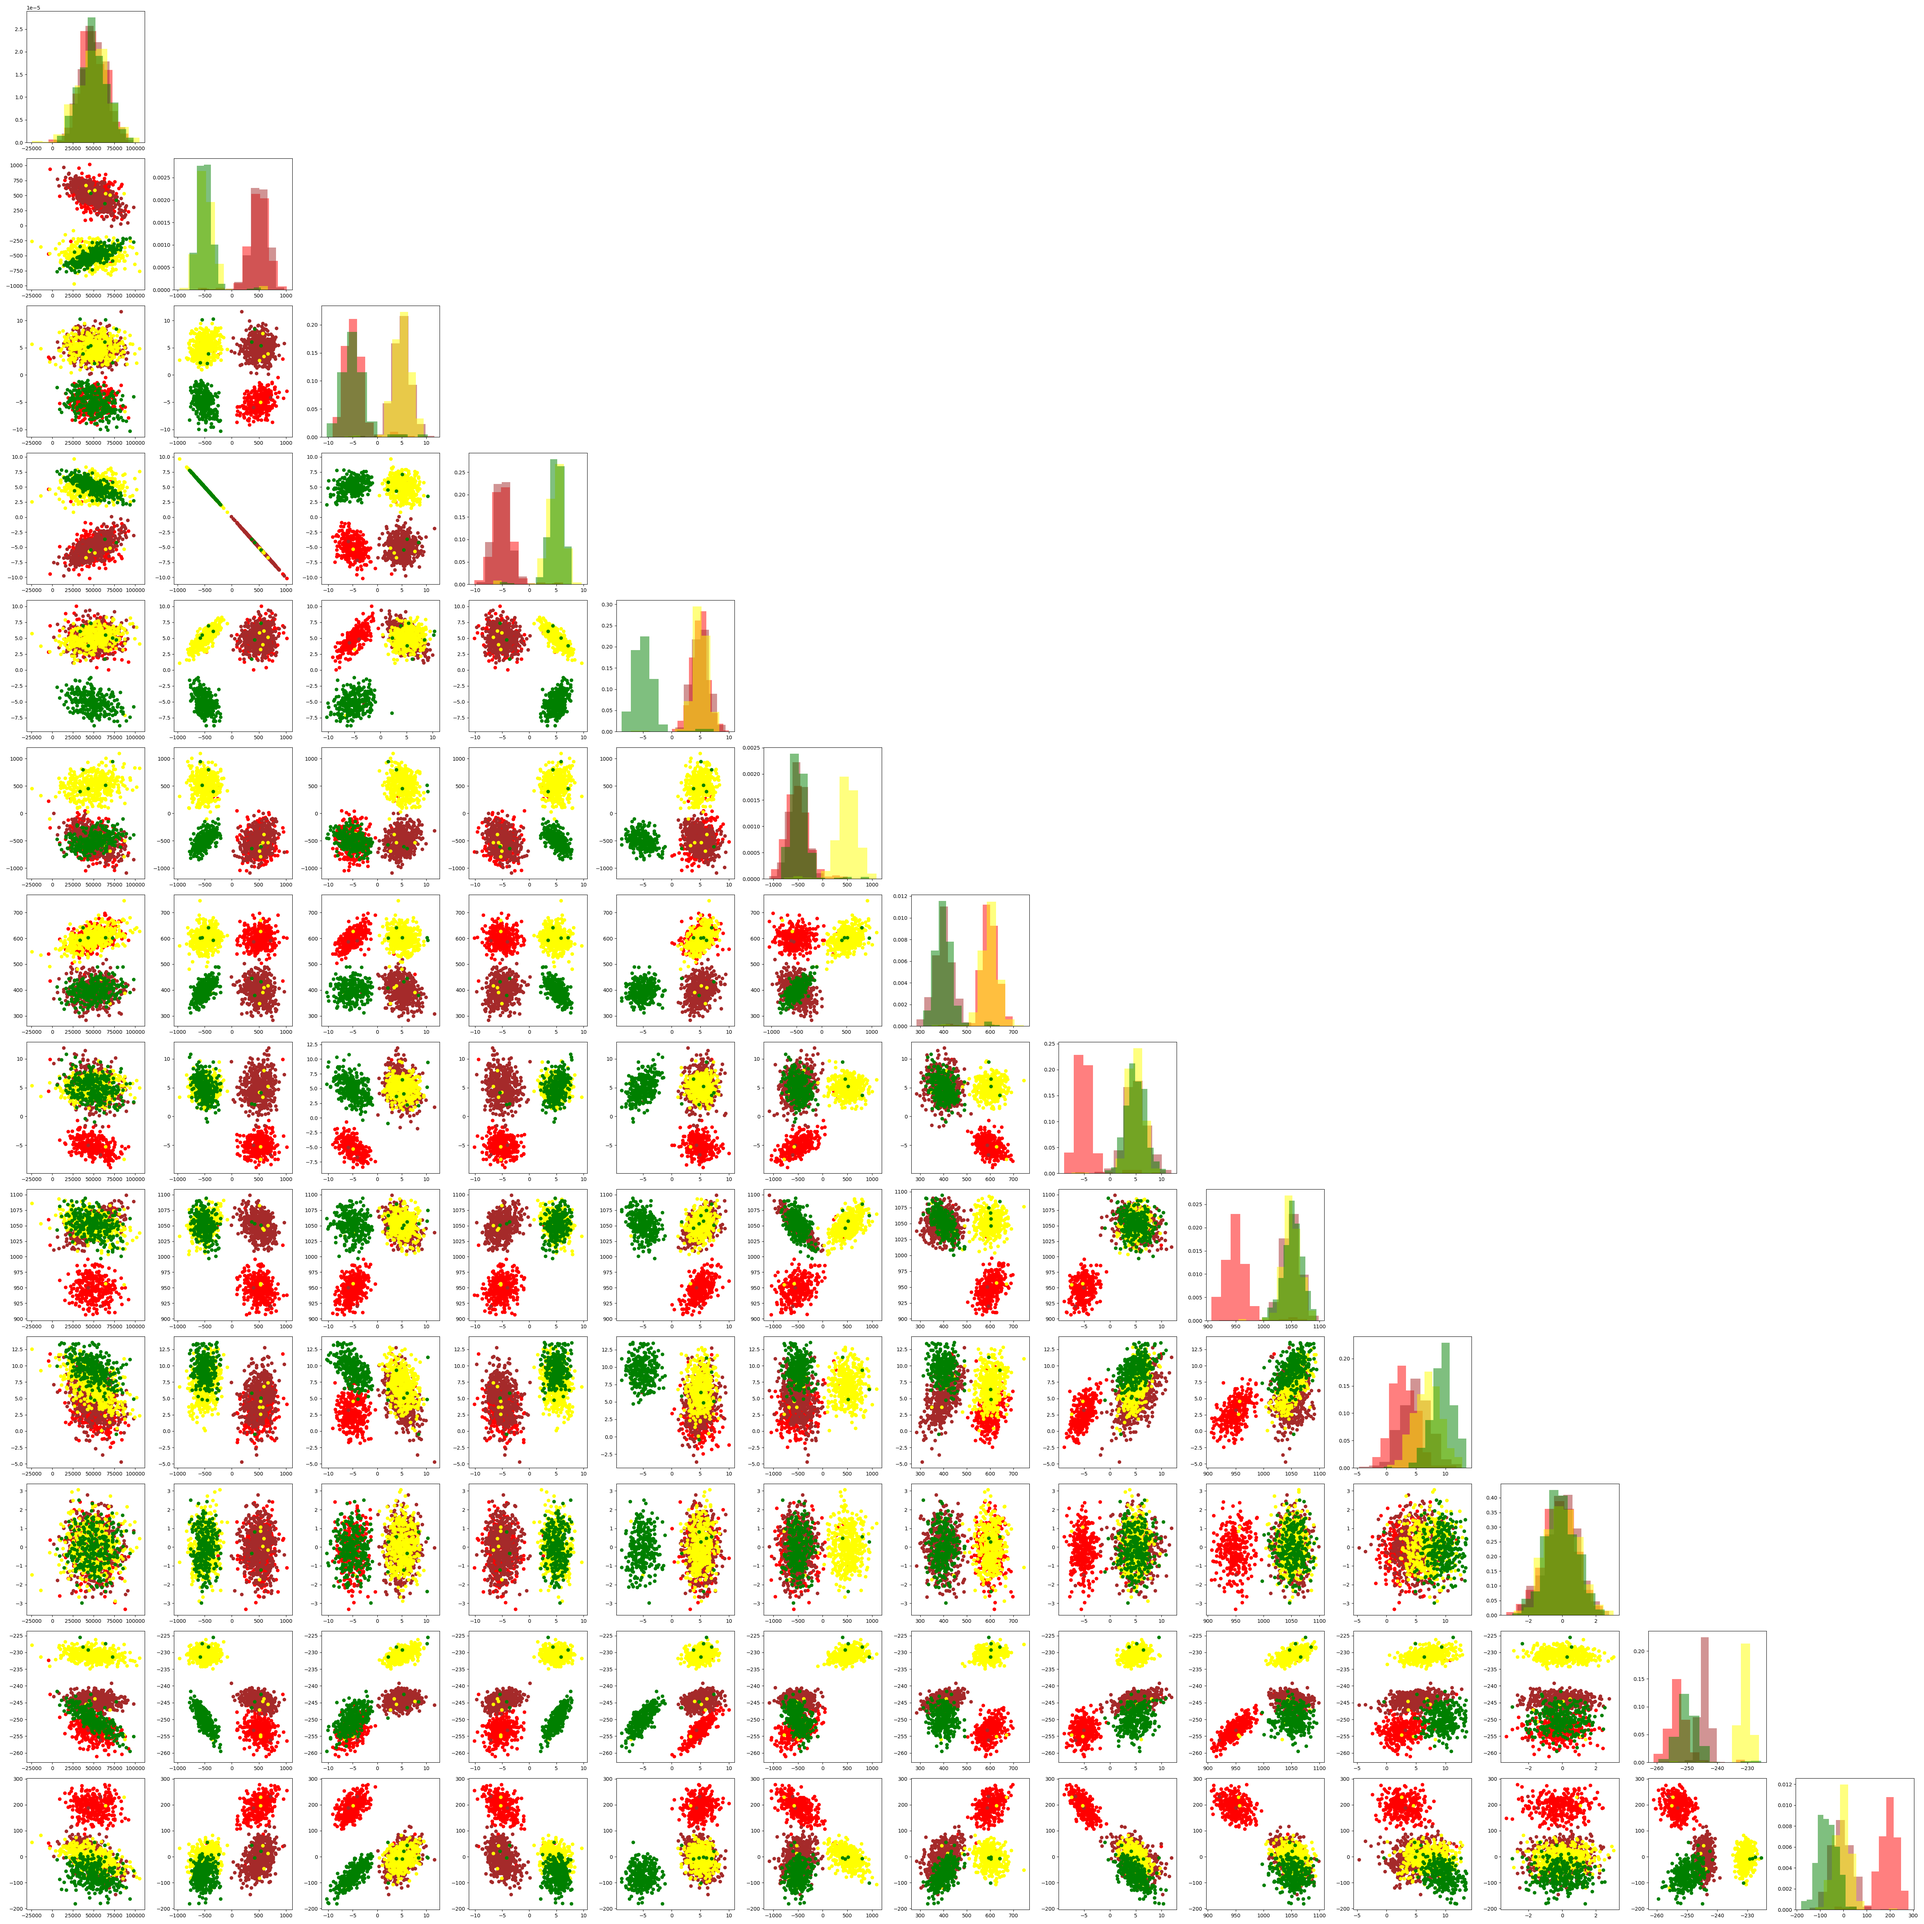
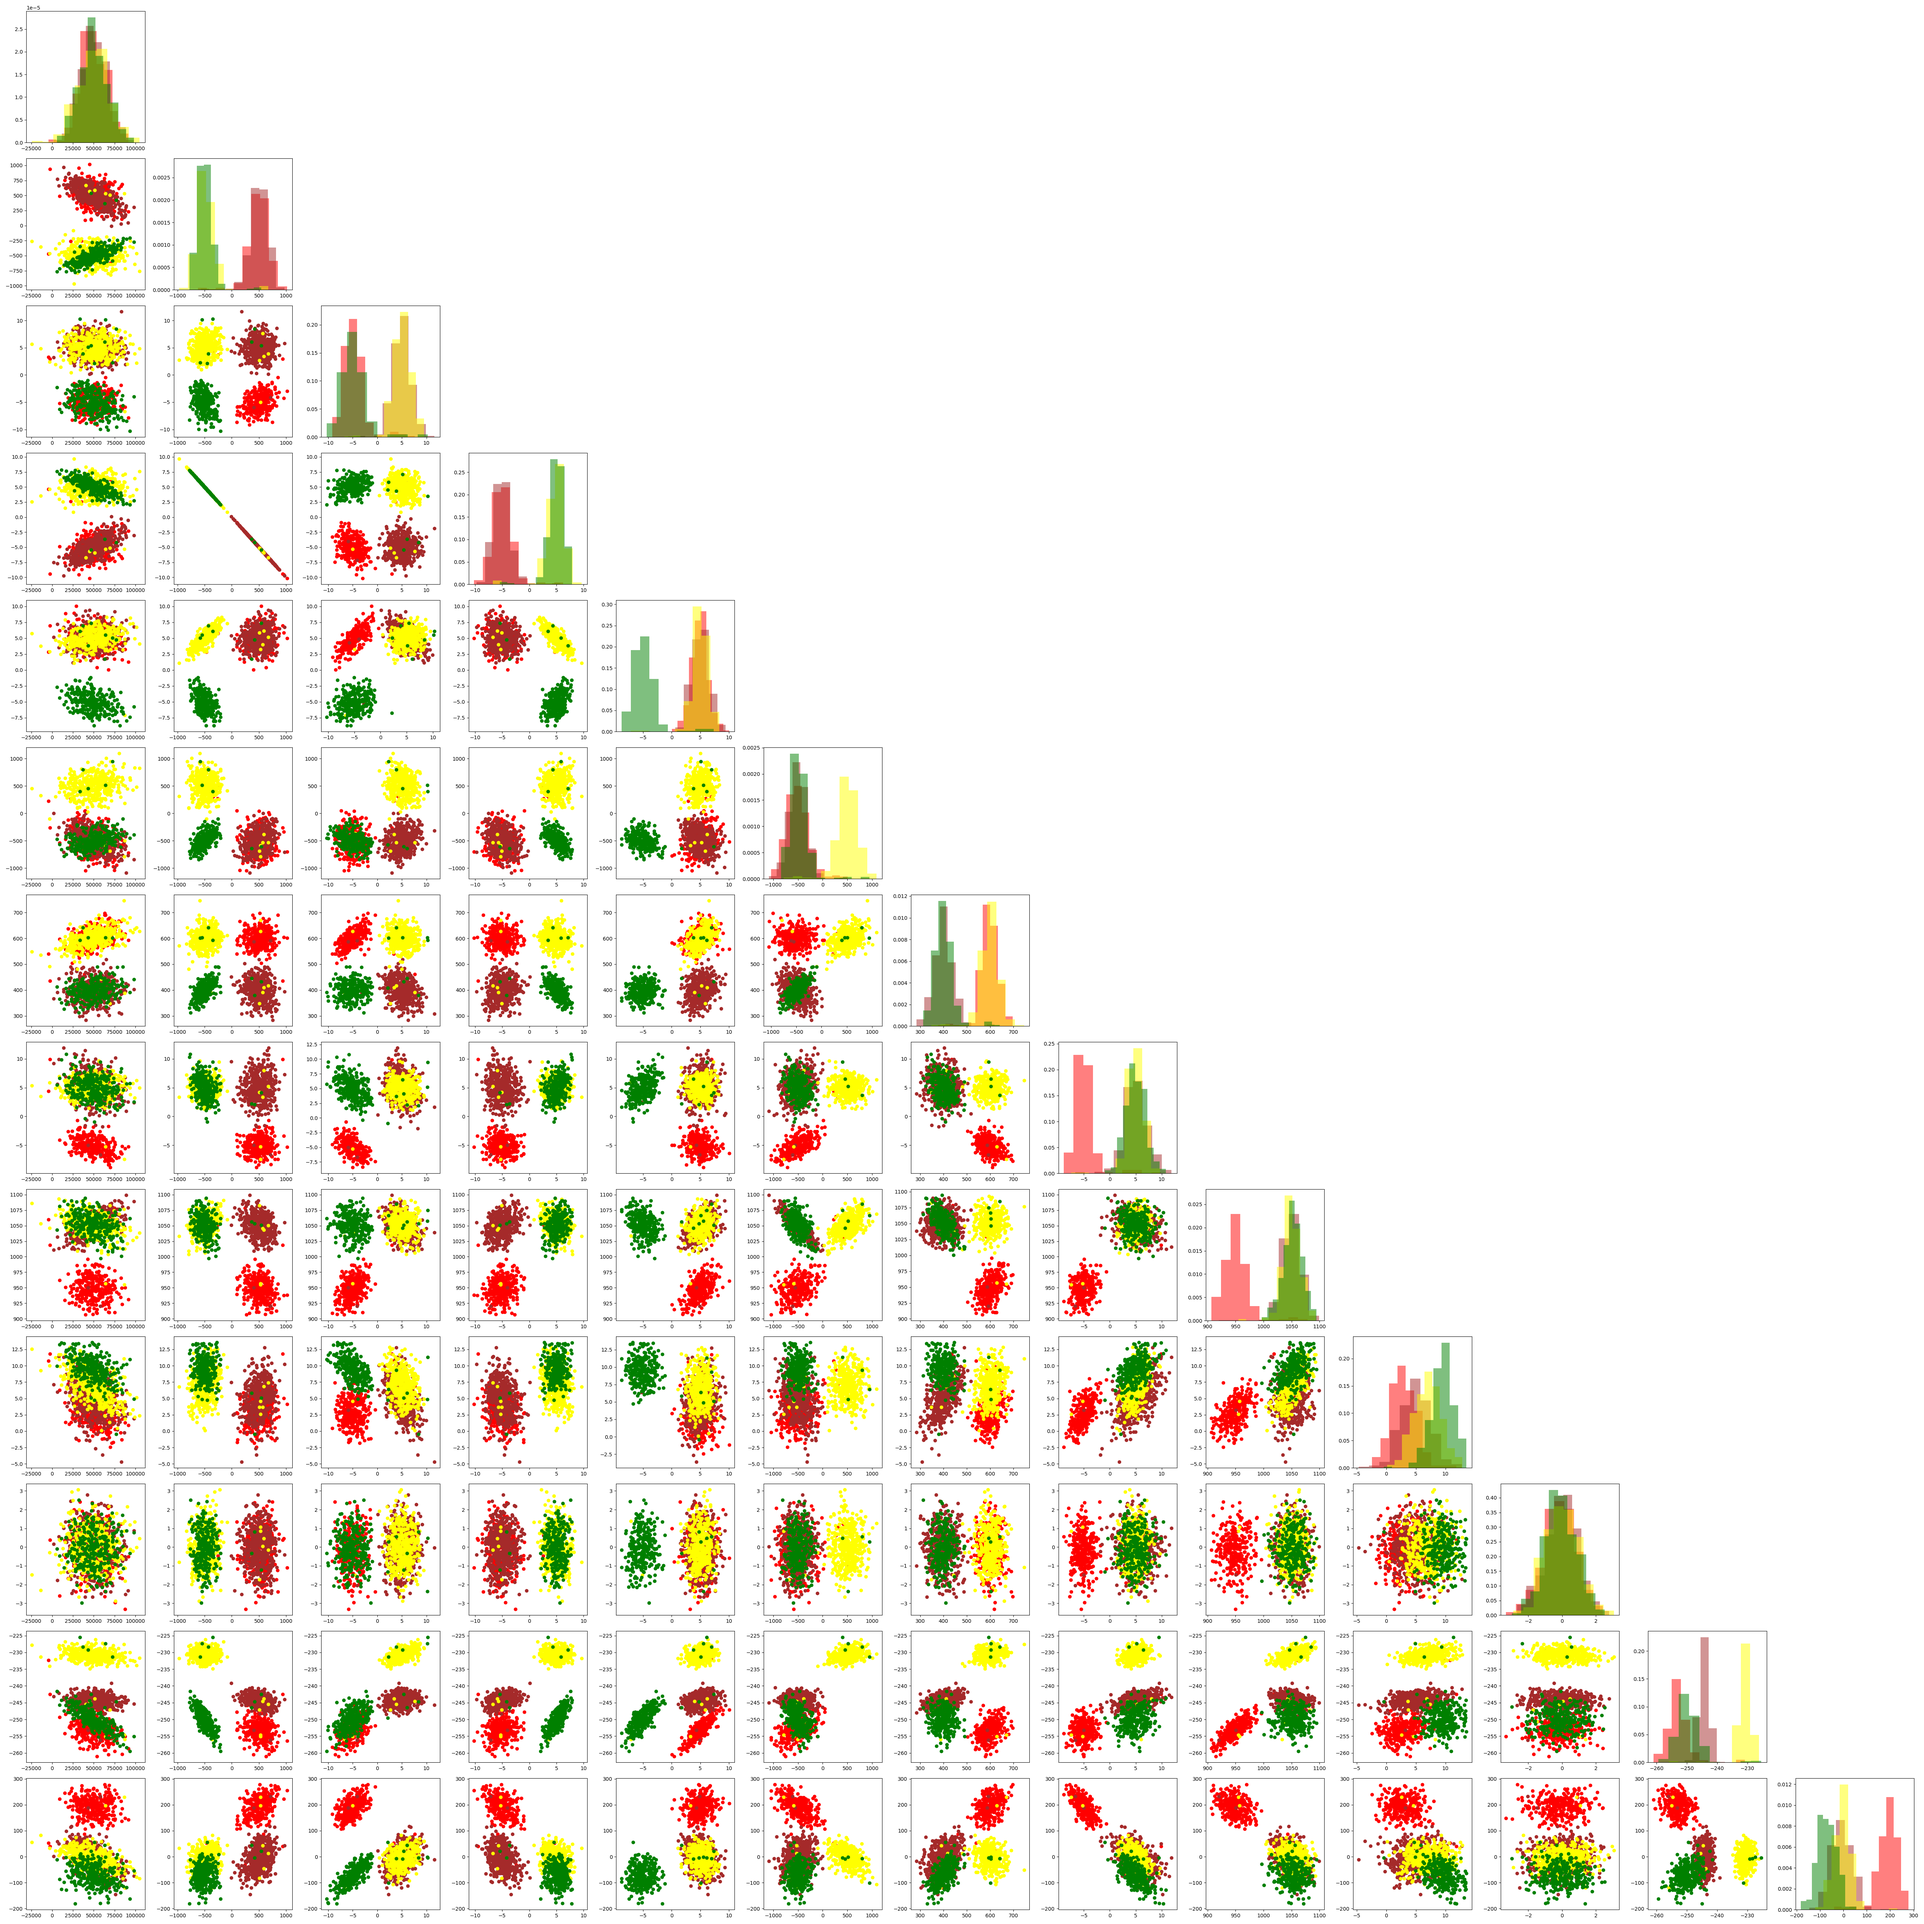
repair historygram and pair plot from merge

diff --git a/histogram.py b/histogram.py
@@ -2,26 +2,43 @@ import utils
 import matplotlib.pyplot as plt
 import os
 
+HOUSE_COLORS = {
+    "Gryffindor": "red",
+    "Hufflepuff": "brown",
+    "Ravenclaw": "yellow",
+    "Slytherin": "green",
+    }
 
-def histogram(features, personal_info):
-    if features is None or personal_info is None:
+HOUSE_ORDER = ["Gryffindor", "Hufflepuff", "Ravenclaw", "Slytherin"]
+
+def min_note(all_note):
+    min_note = all_note[0]
+    for note in all_note:
+        if note < min_note:
+            min_note = note
+    return min_note
+
+def max_note(all_note):
+    max_note = all_note[0]
+    for note in all_note:
+        if note > max_note:
+            max_note = note
+    return max_note
+
+
+def histogram(features, personal_info, course_name):
+    if features is None or personal_info is None or course_name is None:
         print("Error: Failed to load data")
         return None
 
     count = len(features)
-    HOUSE_COLORS = {
-    "Gryffindor": "red",
-    "Hufflepuff": "gold",
-    "Ravenclaw": "blue",
-    "Slytherin": "green",
-    }
-    HOUSE_ORDER = ["Gryffindor", "Hufflepuff", "Ravenclaw", "Slytherin"]
 
     os.makedirs("histograms", exist_ok=True)
     for i in range(count):
         features_data = features[i]
         house_personal = personal_info[0]
         house_data = {house: [] for house in HOUSE_ORDER}
+
         if not features[i]:
             continue
         for student in range(len(features_data)):
@@ -32,24 +49,30 @@ def histogram(features, personal_info):
             if house not in HOUSE_ORDER:
                 continue
             house_data[house].append(features_data[student])
+        all_note = [v for v in features_data if v is not None]
+        if not all_note:
+            continue
+        min_value = min_note(all_note)
+        max_value = max_note(all_note)
+        if min_value == max_value:
+            continue
+        bin_edges = [min_value + i * (max_value - min_value) / 10 for i in range(11)] # use the min and max value to create 10 bins ans is the same for all courses
         plt.figure(figsize=(10, 6))
         for house in HOUSE_ORDER:
-            plt.hist(house_data[house], bins=10, color=HOUSE_COLORS[house], alpha=0.7, label=house)
-        plt.title(f'Histogram of {features[i]}')
+            plt.hist(house_data[house], bins=bin_edges, color=HOUSE_COLORS[house], alpha=0.7, label=house)
+        plt.title(f'Histogram of {course_name[i]}')
         plt.xlabel('Value')
         plt.ylabel('Frequency')
         plt.legend()
-        plt.savefig(f"histograms/histogram_{i+1}.png")
+        plt.savefig(f"histograms/{course_name[i]}.png")
         plt.close()
+
 
 
 if __name__ == "__main__":
     file_path = "datasets/dataset_train.csv"
-    features, personal_info = utils.parse_csv(file_path)
+    features, personal_info, course_name = utils.parse_csv(file_path)
     if features is None or personal_info is None :
         print("Error: Failed to load data")
         exit(1)
-    histogram(features, personal_info)
-
-
-
+    histogram(features, personal_info, course_name)

diff --git a/utils.py b/utils.py
@@ -18,6 +18,8 @@ def parse_csv(filepath):
     if data is None:
         return None
     lines = data.strip().split('\n') # split the data into lines and remove the empty lines
+    header = lines[0].split(",")
+    course_name = [header[i+6].strip() for i in range(13)] 
     data_lines = lines[1:] # remove the header line
     features = [[] for _ in range(13)] # list of features
     personal_info = [[] for _ in range(6)] # list of personal information
@@ -27,12 +29,15 @@ def parse_csv(filepath):
             value = cols[i+1].strip()
             if value:
                 personal_info[i].append(value)
+            else:
+                personal_info[i].append(None)
         for i in range(13):
             value = cols[i+6].strip()
             if value:
                 features[i].append(float(value))
-    return features, personal_info
-
+            else:
+                features[i].append(None)
+    return features, personal_info, course_name
 def checkFile_csv(filepath):
     try:
         data = pd.read_csv(filepath);
